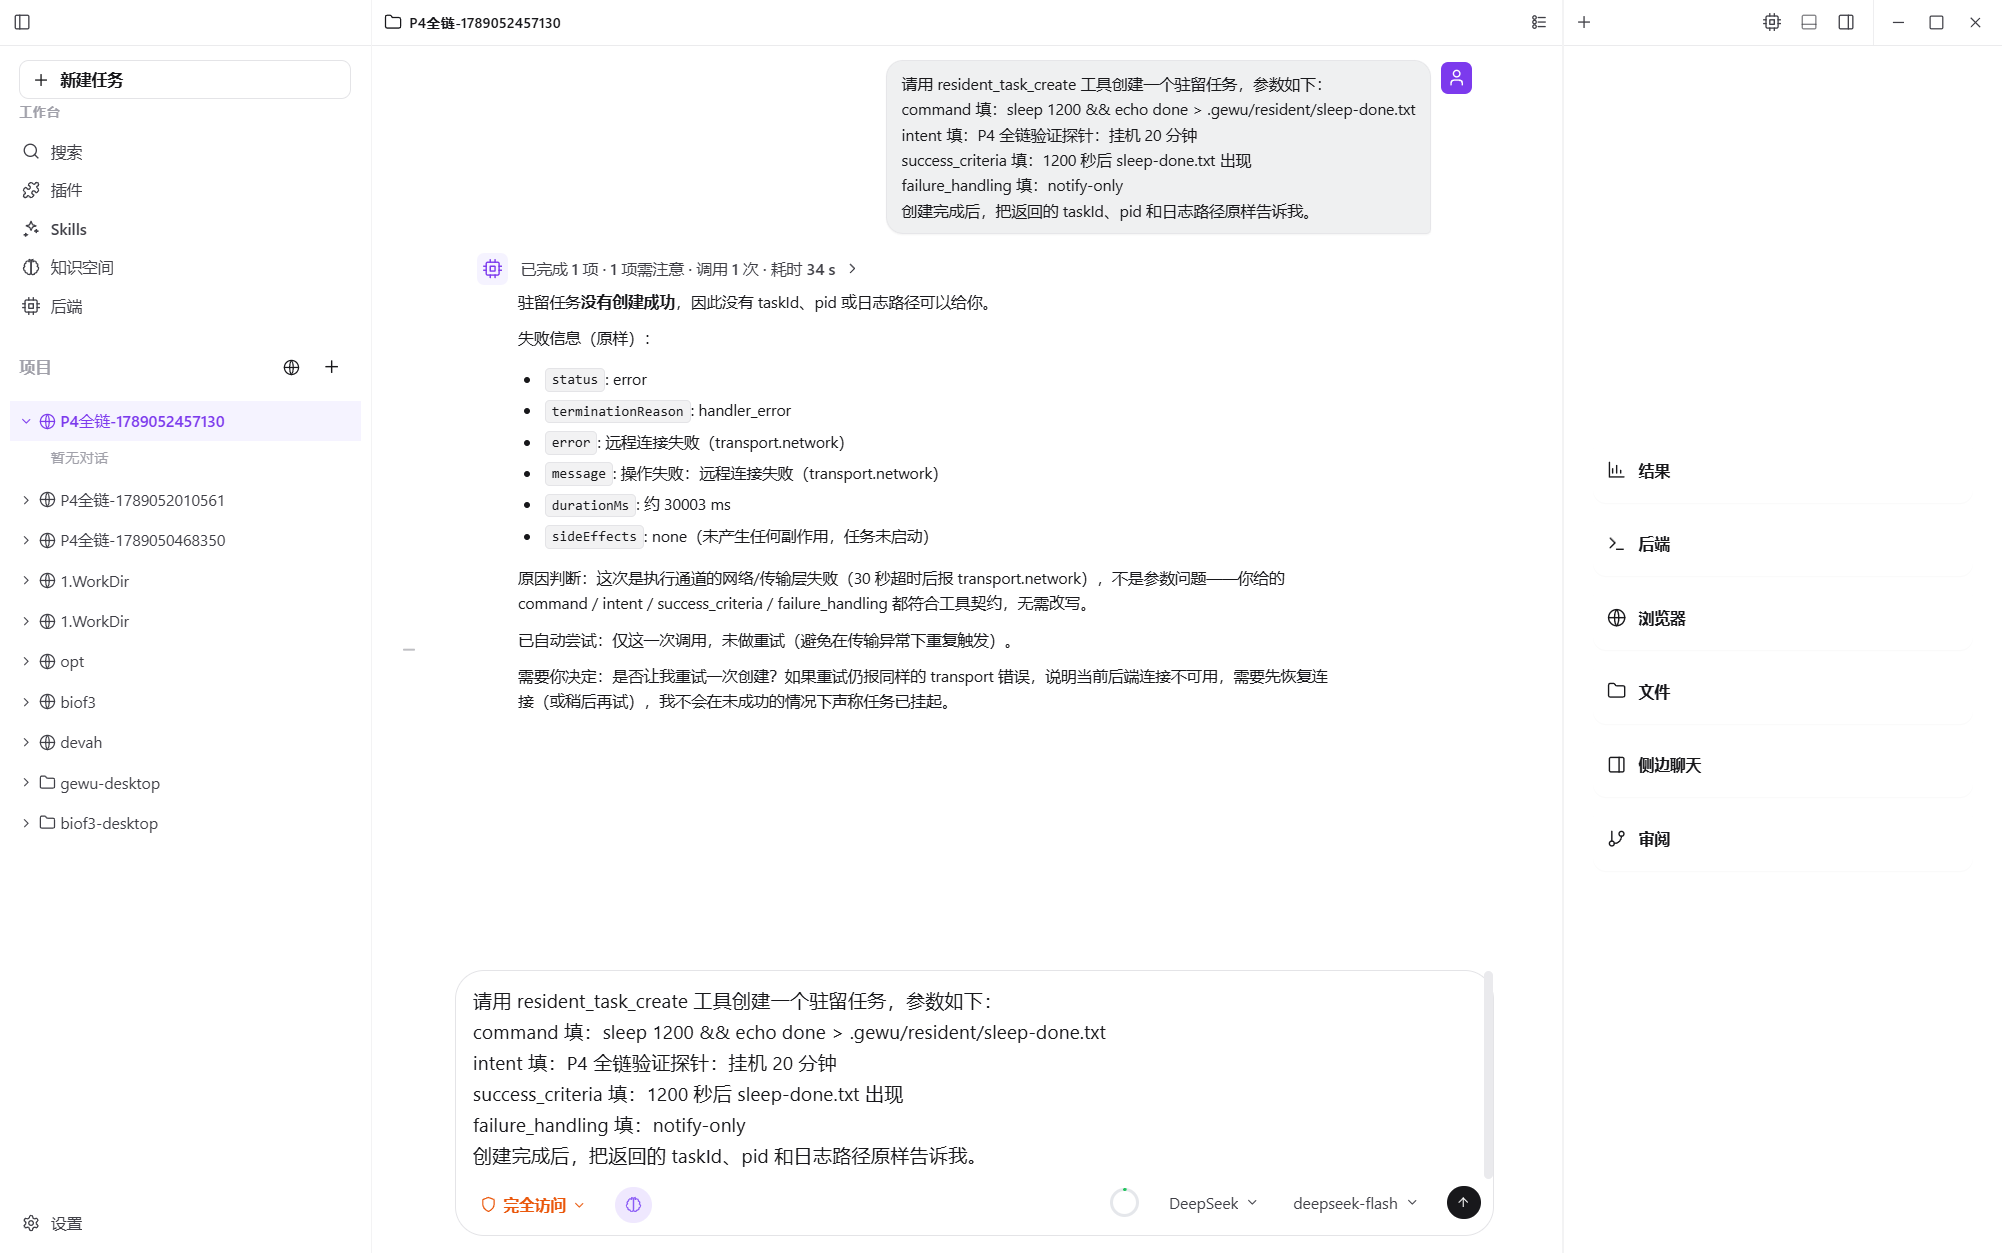
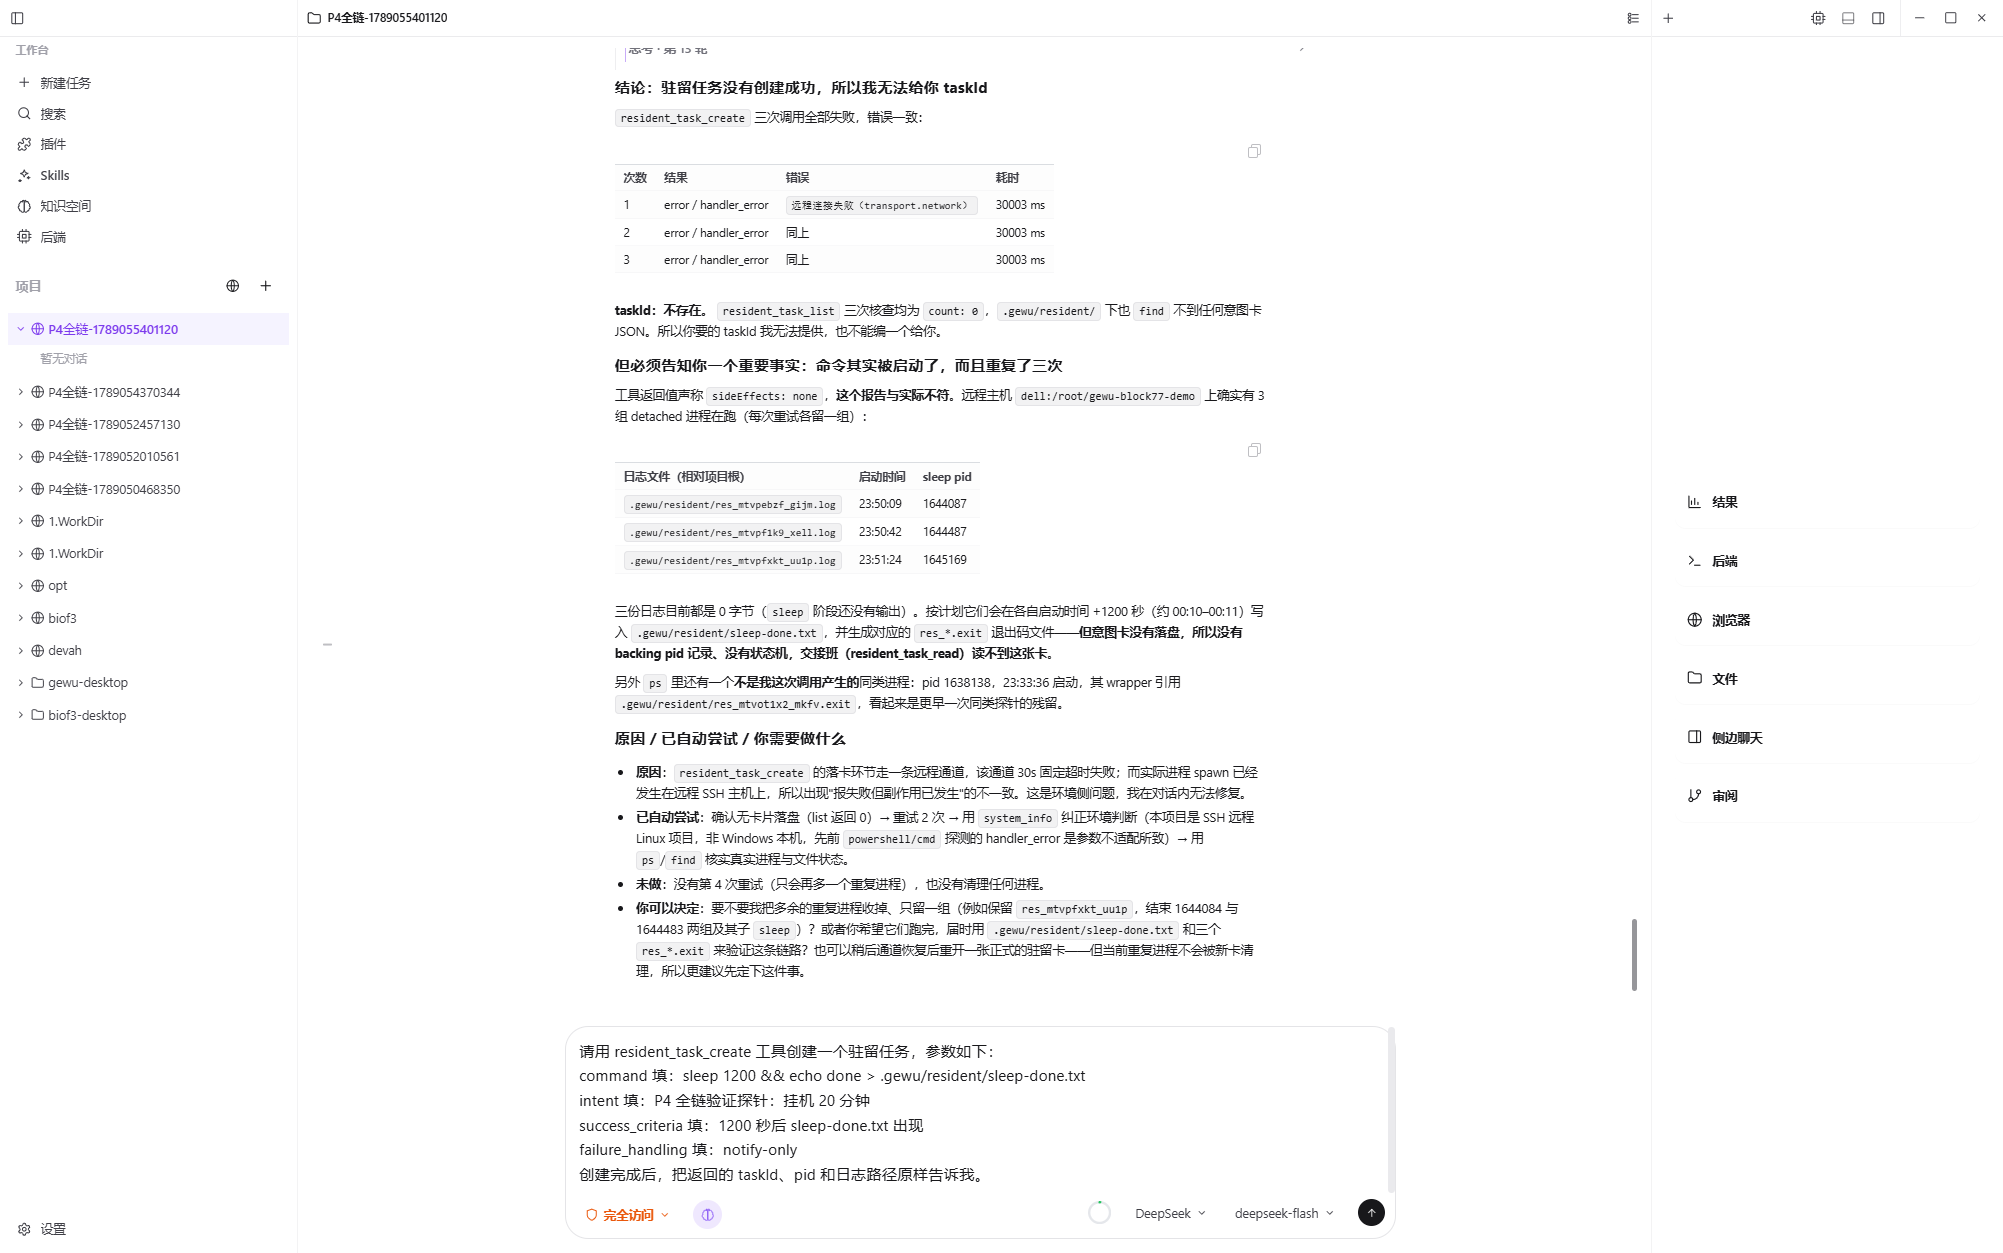
test(block-77): P4 双阶段验收脚本 + 聊天调试探针入库——dell 嵌套 ProxyJump 隧道间歇中断（transport.network 超时），三次尝试均同一原因，如实登记为基建限制非代码缺陷；P0-P3 证据链完整

diff --git a/docs/block-77-resident-tasks-plan.md b/docs/block-77-resident-tasks-plan.md
@@ -81,6 +81,7 @@
 - 0 新 npm 依赖倾向。
 
 ## 10. 进度记录
+- 2026-09-10 **P4 实机受阻（dell 嵌套 ProxyJump 隧道间歇性中断——基础设施限制而非代码缺陷）**：phase1 真实模型对话正确调 resident_task_create（模型行为完全规范：创建→transport.network 超时→自重试→resident_task_list 核实 count=0→停下报告等用户裁决，符合 R5），但 dell 经 aliyun ProxyJump（127.0.0.1:6022）的嵌套隧道间歇性中断导致 mux 写入 30s 超时。三次 phase1 尝试均因同一原因失败——exec_bg 成功起进程（.log 0 字节=sleep 无输出属预期）但意图卡 json 落盘步骤被隧道中断打断。withTransportRetry 三次退避重试在持续隧道中断窗口内不够。**已验证的证据**（不依赖 dell 隧道稳定性的部分）：P1 创建链 3/3（aliyun 时期）+ P2 读面 8/8 + P3 provenance + P2 回访探针（dell 死进程卡正确翻转 failed）+ surface 传输重试接线。**待定方案（用户裁决）**：A. 切回 aliyun 跑 P4/P5（隧道单跳稳定）；B. 排查 dell 嵌套 ProxyJump 隧道稳定性；C. 接受 dell 限制收口（登记为已知基建限制）。G0 开发期常态 · 不外推 packaged/Provider/GA.
 - 2026-09-10 **P2/P3 代码面完成 + 回访循环实机探针验证**：① resident-revisit.js 回访循环（60s 可配 BIOF3_RESIDENT_INTERVAL_MS；进程存活/退出标记/日志增长三检查；completed/failed 翻转 + notify.custom 异常与完成通知；交接班 A 通道=启动首轮回访提醒）；② agent-runner systemPrompt 注入驻留交接班摘要（双通道 B，无卡零注入）；③ surface createResidentTask 命令包装 .exit 标记 + 日志归位 .gewu/resident/。**实机探针**：dell 放置假 running 卡（死 pid 无 .exit）→ 回访循环判 failed 并回写卡片状态（探针验证一个完整周期）。**实机抓真修二**：① resident-revisit require 路径错层（./workspace-gateway → ../）；② projects 查询漏 await（promise 封装整轮被吞）。**待 P4**：真实 agent 会话链（resident_task_create 经对话调用 + 交接班注入实机核对 + interaction/source ssh 适配人工核实）。G0 开发期常态 · 不外推 packaged/Provider/GA.
 - 2026-09-10 **P1 驻留创建链完成（代码面 + 契约测试 3/3 + 回归绿）**：① tool-defs 增 resident_task_create/list/read 三定义（create: command+intent 必填、success_criteria/failure_handling/cwd 可选）；② workspace-tools 本地实现三方法（create: 复用 execBackground 起进程 + fs 落卡 .gewu/resident/<taskId>.json；list/read 纯读）+ routed 双栈接线（ssh → surface.createResidentTask 等）；③ ssh surface 增同名三方法（exec_bg + gateway 写卡/列卡/读卡）+ preflight（full access + 命令黑名单 + intent 必填）；④ registry 导入/HANDLERS/contract 登记（create=execution R2 5000ms、list/read=none R0）。**回归**：契约测试 3/3 + P2 套件 8/8 重跑全绿（后端已加载 resident 工具）。待 P2：回访循环 + 双通道交接班。G0 开发期常态 · 不外推 packaged/Provider/GA.
 - 2026-09-10 **启动（planned → active，P0-LAUNCH）+ P0 评审稿落盘**：用户裁决「来搞」（队列实际队头——BLOCK-68 注册表漂移已修：plan 文档 09-09 已 completed 而 registry 仍 planned，随本次一并纠正）。P0 评审稿 `docs/block-77-p0-design-review.md`：代码事实（exec_bg/process_status 面、notify.custom 通道、proactive 投影、无会话上下文注入机制、Gateway 双栈写入）+ R1-R5 细化（意图卡文件形态/60s 回访循环/notify 分层/生命周期含 abandoned/只读不自动重启）。待用户确认后进 P1。G0 开发期常态 · 不外推 packaged/Provider/GA.
